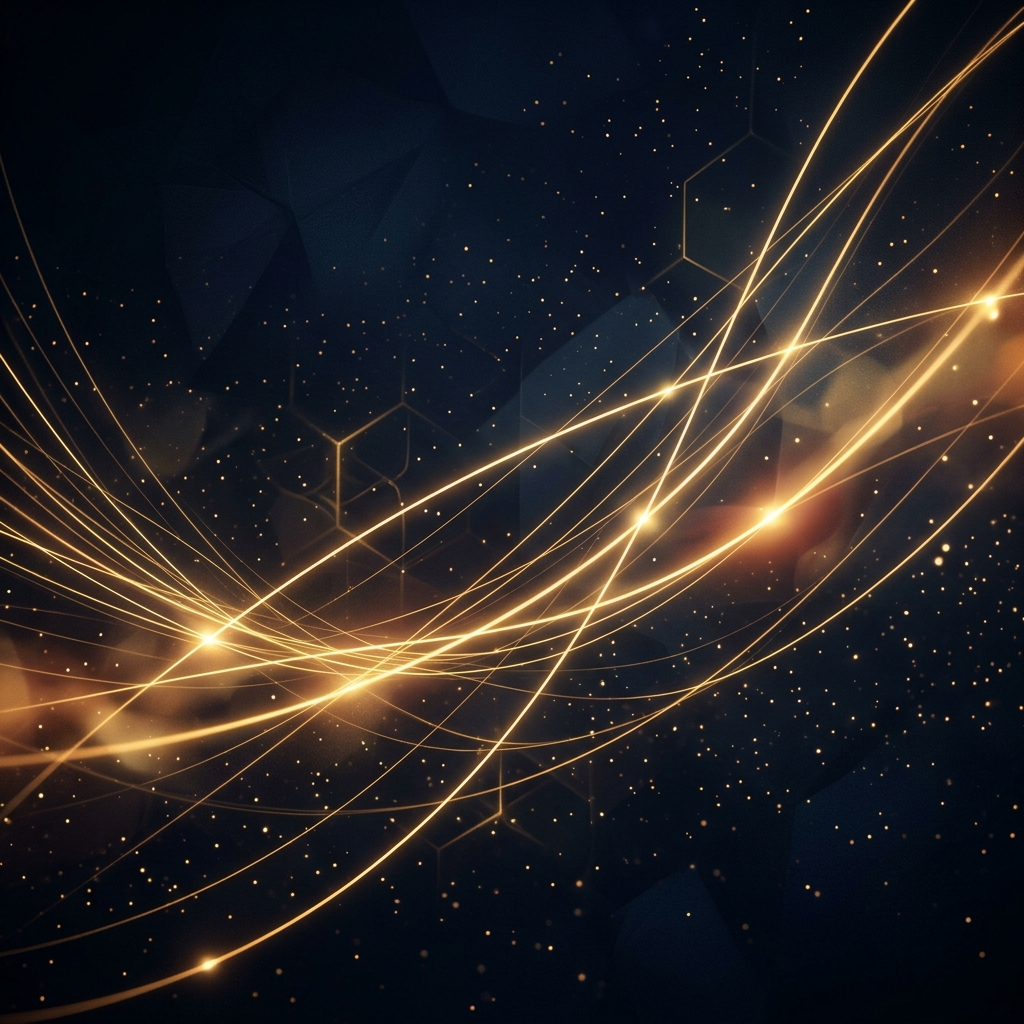
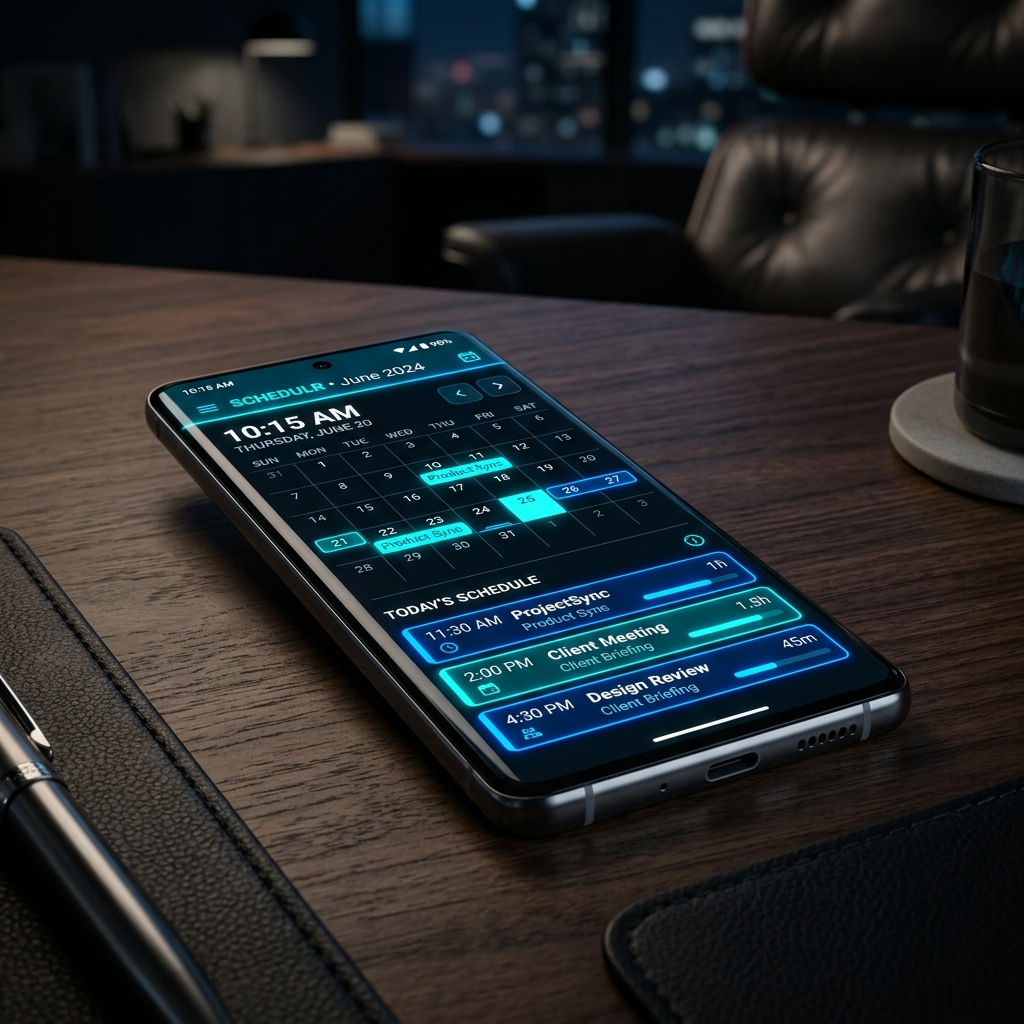
Replace generic AI hero image with sleek calendar smartphone mockup and add cache-busters to index.html

diff --git a/index.html b/index.html
@@ -9,7 +9,7 @@
     <link rel="preconnect" href="https://fonts.googleapis.com">
     <link rel="preconnect" href="https://fonts.gstatic.com" crossorigin>
     <link href="https://fonts.googleapis.com/css2?family=Outfit:wght@300;400;500;600;700&family=Playfair+Display:ital,wght@0,400;0,600;0,700;1,400&display=swap" rel="stylesheet">
-    <link rel="stylesheet" href="css/style.css">
+    <link rel="stylesheet" href="css/style.css?v=1.2">
 </head>
 <body>
 
@@ -22,7 +22,7 @@
     <header id="main-header">
         <div class="container header-container">
             <a href="#" class="logo-area">
-                <img src="assets/logo.png" alt="AgentroXAI Logo" class="header-logo">
+                <img src="assets/logo.png?v=1.2" alt="AgentroXAI Logo" class="header-logo">
                 <span class="logo-text">Agentro<span class="gold-gradient-text">XAI</span></span>
             </a>
             <nav id="navbar">
@@ -72,7 +72,7 @@
             <div class="hero-visual">
                 <div class="luxury-card hero-card">
                     <div class="pulse-ring"></div>
-                    <img src="assets/hero-bg.png" alt="Luxury Tech Graphics" class="hero-image">
+                    <img src="assets/hero-bg.png?v=1.2" alt="Luxury Tech Graphics" class="hero-image">
                     <div class="hero-badge float-badge-1">
                         <svg width="18" height="18" viewBox="0 0 24 24" fill="none" stroke="currentColor" stroke-width="2"><path d="M22 16.92v3a2 2 0 0 1-2.18 2 19.79 19.79 0 0 1-8.63-3.07 19.5 19.5 0 0 1-6-6 19.79 19.79 0 0 1-3.07-8.67A2 2 0 0 1 4.11 2h3a2 2 0 0 1 2 1.72 12.84 12.84 0 0 0 .7 2.81 2 2 0 0 1-.45 2.11L8.09 9.91a16 16 0 0 0 6 6l1.27-1.27a2 2 0 0 1 2.11-.45 12.84 12.84 0 0 0 2.81.7A2 2 0 0 1 22 16.92z"></path></svg>
                         <span>Call Handled in 0.8s</span>
@@ -269,7 +269,7 @@
                     <div class="stars">★★★★★</div>
                     <p class="test-text">"We were losing dozens of booking inquiries every weekend. Since deploying AgentroXAI, we book an average of 14 new client consultations every single weekend automatically. The setup was seamless, and the ROI was positive in the first 7 days."</p>
                     <div class="test-author">
-                        <img src="assets/testimonials/spa-owner.png" alt="Dr. Sarah Lin" class="author-img">
+                        <img src="assets/testimonials/spa-owner.png?v=1.2" alt="Dr. Sarah Lin" class="author-img">
                         <div class="author-info">
                             <cite class="author-name">Dr. Sarah Lin</cite>
                             <span class="author-role">Founder, Lumina MedSpa</span>
@@ -281,7 +281,7 @@
                     <div class="stars">★★★★★</div>
                     <p class="test-text">"In family law, speed to lead is everything. If you don't answer, they call the next firm. AgentroXAI qualifies inbound inquiries instantly on our web chat and schedules consultation calls directly on our calendar. A total game changer."</p>
                     <div class="test-author">
-                        <img src="assets/testimonials/lawyer.png" alt="Arthur Vance" class="author-img">
+                        <img src="assets/testimonials/lawyer.png?v=1.2" alt="Arthur Vance" class="author-img">
                         <div class="author-info">
                             <cite class="author-name">Arthur Vance, Esq.</cite>
                             <span class="author-role">Managing Partner, Vance Law Group</span>
@@ -298,7 +298,7 @@
             <div class="founder-card luxury-card">
                 <div class="founder-grid">
                     <div class="founder-img-wrapper">
-                        <img src="assets/founder.png" alt="Kshitij - Founder of AgentroXAI" class="founder-img">
+                        <img src="assets/founder.png?v=1.2" alt="Kshitij - Founder of AgentroXAI" class="founder-img">
                         <div class="founder-glow"></div>
                     </div>
                     <div class="founder-message">
@@ -510,7 +510,7 @@
         <div class="container footer-container">
             <div class="footer-left">
                 <a href="#" class="logo-area">
-                    <img src="assets/logo.png" alt="AgentroXAI Logo" class="footer-logo">
+                    <img src="assets/logo.png?v=1.2" alt="AgentroXAI Logo" class="footer-logo">
                     <span class="logo-text">Agentro<span class="gold-gradient-text">XAI</span></span>
                 </a>
                 <p class="footer-bio">Deploying bespoke AI receptionists that work 24/7/365. Capturing missed revenue and building trust for premium local brands.</p>